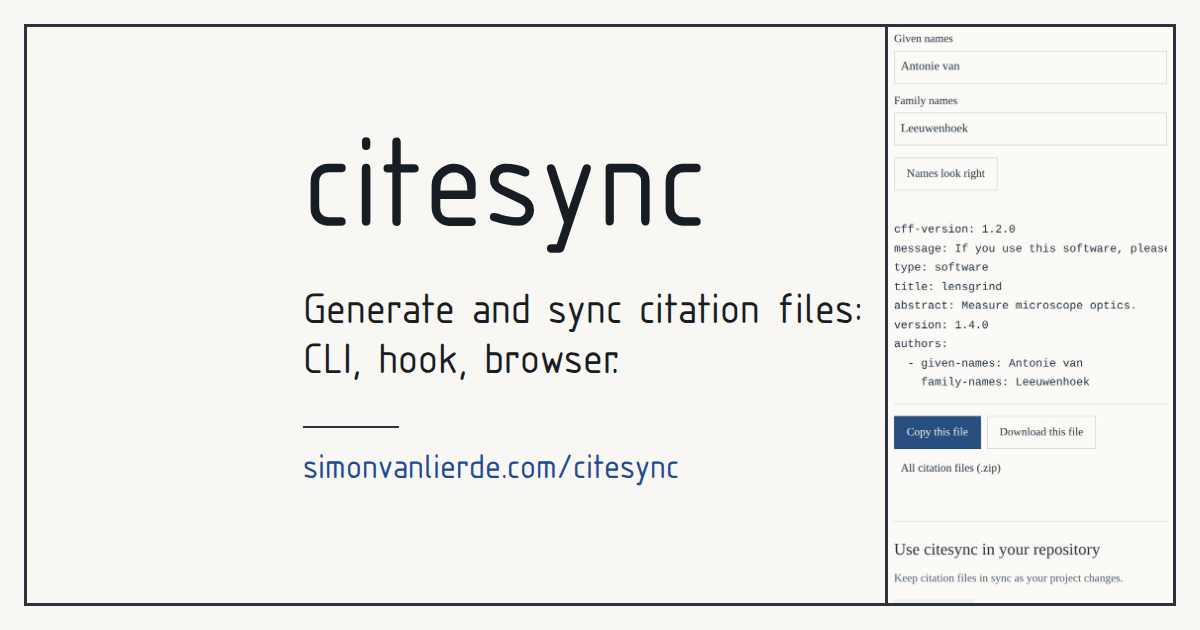
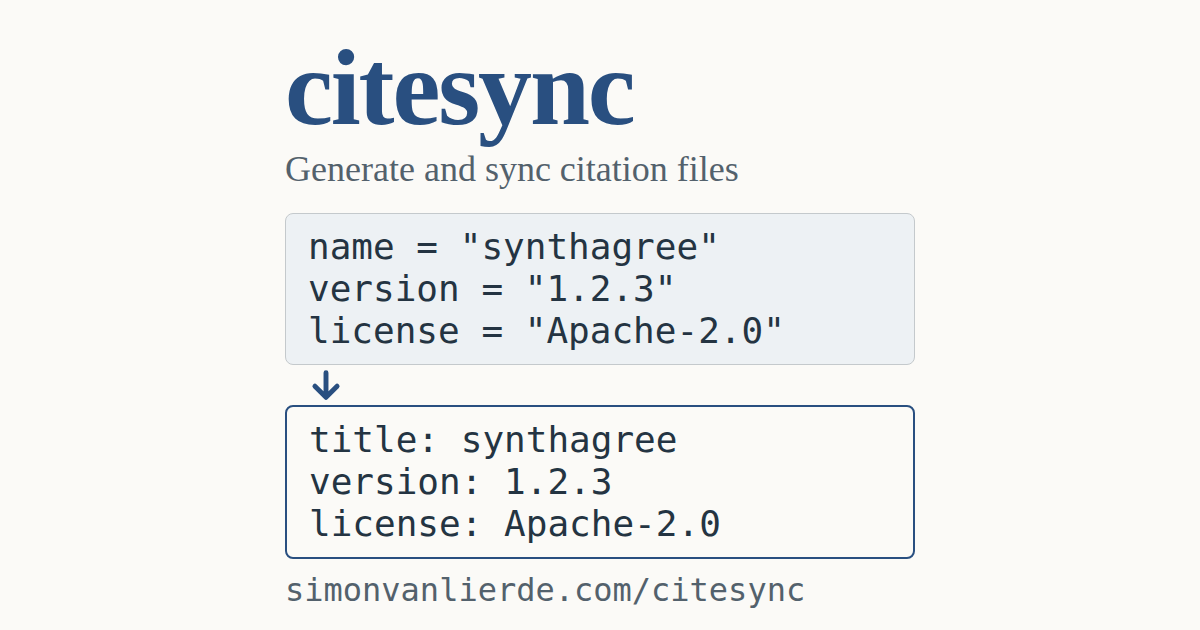
feat(playground): draw the social card from an HTML source
The generated card showed a phone screenshot and said little about what
citesync does. The new card shows a pyproject.toml's name, version and
license beside the CITATION.cff lines citesync init writes from it.

- add docs/og-card.html and re-render playground/og.png from it
- run the example through citesync init: tests/fixtures/synthetic-agree
- state that message in og:image:alt
- replace the README generator command with the render command
- delete og-visual.jpg, which only the old generator used

Not tested: how the card renders in a link preview on a social site.

diff --git a/docs/og-card.html b/docs/og-card.html
@@ -1,0 +1,40 @@
+<!doctype html>
+<html lang="en">
+<head>
+<meta charset="utf-8">
+<title>citesync social card</title>
+<!-- Source of playground/og.png. Render: see README.md, "Social card". -->
+<style>
+  :root {
+    --paper: #fbfaf7; --ink: #243442; --muted: #53616c; --line: #c4c9cc; --accent: #294f80; --wash: #edf1f4;
+    --serif: Georgia, Charter, "Bitstream Charter", "Sitka Text", Cambria, "Liberation Serif", serif;
+    --mono: ui-monospace, "Cascadia Code", "Source Code Pro", Menlo, Consolas, "DejaVu Sans Mono", monospace;
+  }
+  * { box-sizing: border-box; margin: 0; }
+  html, body { width: 1200px; height: 630px; background: var(--paper); color: var(--ink); overflow: hidden; }
+  /* Everything that carries meaning sits in the centred 630 px column. */
+  main { position: absolute; left: 285px; top: 0; width: 630px; height: 630px; padding-top: 34px; }
+  h1 { font: 700 108px/1 var(--serif); letter-spacing: -0.02em; color: var(--accent); }
+  .job { margin-top: 6px; font: 400 36px/1.2 var(--serif); color: var(--muted); white-space: nowrap; }
+  pre { margin-top: 22px; padding: 12px 22px; font: 400 36px/42px var(--mono); background: var(--wash); border: 1px solid var(--line); border-radius: 8px; }
+  pre.out { margin-top: 0; background: var(--paper); border: 2px solid var(--accent); }
+  .out b { font-weight: 400; color: var(--accent); }
+  svg { display: block; margin: 4px 0 4px 22px; }
+  .url { position: absolute; left: 0; bottom: 24px; font: 400 32px/1 var(--mono); color: var(--muted); }
+</style>
+</head>
+<body>
+<main>
+  <h1>citesync</h1>
+  <p class="job">Generate and sync citation files</p>
+<pre>name = "synthagree"
+version = "1.2.3"
+license = "Apache-2.0"</pre>
+  <svg width="38" height="32" viewBox="0 0 30 26" fill="none" stroke="#294f80" stroke-width="4" stroke-linecap="round" stroke-linejoin="round" aria-hidden="true"><path d="M15 3v19M6 14l9 9 9-9"/></svg>
+<pre class="out">title: synthagree
+version: 1.2.3
+license: Apache-2.0</pre>
+  <p class="url">simonvanlierde.com/citesync</p>
+</main>
+</body>
+</html>

diff --git a/playground/index.html b/playground/index.html
@@ -15,7 +15,7 @@
 <meta property="og:image" content="https://simonvanlierde.com/citesync/og.png">
 <meta property="og:image:width" content="1200">
 <meta property="og:image:height" content="630">
-<meta property="og:image:alt" content="citesync: generate and sync citation files: CLI, hook, browser. simonvanlierde.com/citesync">
+<meta property="og:image:alt" content="citesync turns the name, version and license in a pyproject.toml into the title, version and license of a CITATION.cff. simonvanlierde.com/citesync">
 <meta name="twitter:card" content="summary_large_image">
 <meta name="theme-color" content="#fbfaf7" media="(prefers-color-scheme: light)">
 <meta name="theme-color" content="#192229" media="(prefers-color-scheme: dark)">

diff --git a/README.md b/README.md
@@ -73,16 +73,15 @@ The `citesync` hook runs when a commit changes a supported metadata file, a cite
 
 ## Social card
 
-[`playground/og.png`](playground/og.png) is the 1200x630 card shown when the link is shared. It is made with the generator in
-[my site repo](https://github.com/simonvanlierde/simonvanlierde.github.io/tree/main/scripts/social-card)
-(needs Docker). The visual is a screenshot of the live page at phone width, cropped. `playground/build.py` copies the card into the built site; the tags are in `playground/index.html`. From a checkout of
-that repo, with this repo next to it:
+[`playground/og.png`](playground/og.png) is the 1200x630 card shown when the link is shared. It is rendered from
+[`docs/og-card.html`](docs/og-card.html), whose example is `tests/fixtures/synthetic-agree/pyproject.toml` run through `citesync init`. Edit the HTML, then from the repo root:
 
 ```sh
-pnpm gen:card --visual ../citesync/playground/og-visual.jpg --name "citesync" \
-  --line "Generate and sync citation files: CLI, hook, browser." \
-  --domain simonvanlierde.com/citesync --out ../citesync/playground/og.png
+pnpm exec playwright screenshot --browser=chromium --viewport-size=1200,630 \
+  file://$PWD/docs/og-card.html playground/og.png
 ```
+
+`playground/build.py` copies the card into the built site; the tags are in `playground/index.html`.
 
 ## Development
 
